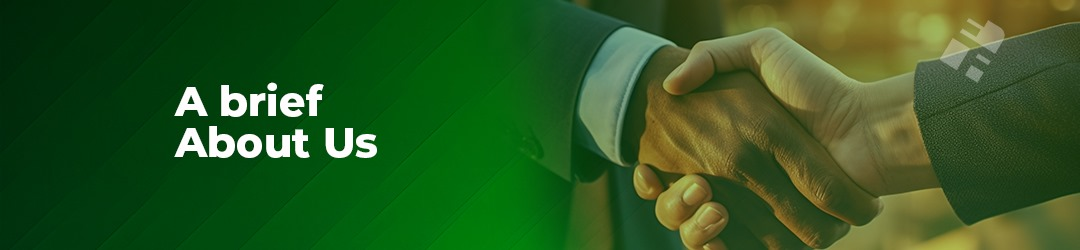
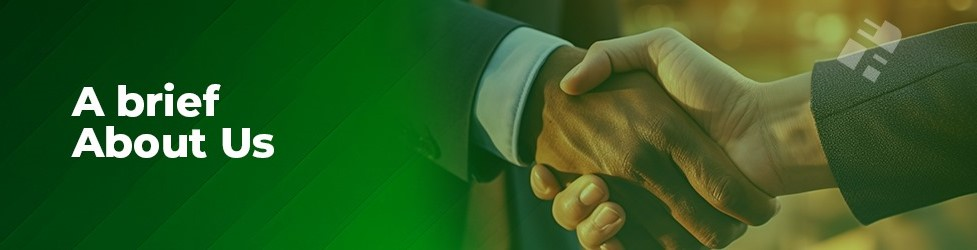
now good

diff --git a/src/pages/About.jsx b/src/pages/About.jsx
@@ -7,11 +7,11 @@ function About() {
 
   return (
     <>
-      <div className="relative h-[150px] md:h-[200px] lg:h-[300px] overflow-hidden">
+      <div className="relative h-[130px] md:h-[200px] lg:h-[300px] overflow-hidden">
         <img
           src={about}
           alt="Banner"
-          className="absolute inset-0 w-[300px] sm:w-full h-full object-cover"
+          className="absolute inset-0 w-full h-full object-cover"
         />
       </div>
       <div className="max-w-6xl mx-auto my-5 mb-10 font-montserrat">

diff --git a/src/pages/Incubation.jsx b/src/pages/Incubation.jsx
@@ -46,11 +46,11 @@ function Incubation() {
 
   return (
     <>
-      <div className="relative h-[150px] md:h-[200px] lg:h-[300px] overflow-hidden">
+      <div className="relative h-[130px] md:h-[200px] lg:h-[300px] overflow-hidden">
         <img
           src={startup}
           alt="Banner"
-          className="absolute inset-0 w-[400px] sm:w-full h-full object-cover"
+          className="absolute inset-0 w-full h-full object-cover"
         />
       </div>
 

diff --git a/src/pages/Contact.jsx b/src/pages/Contact.jsx
@@ -46,7 +46,7 @@ function Contact() {
   };
   return (
     <>
-      <div className="relative h-[150px] md:h-[200px] lg:h-[300px] overflow-hidden">
+      <div className="relative h-[130px] md:h-[200px] lg:h-[300px] overflow-hidden">
         <img
           src={contact}
           alt="Banner"
